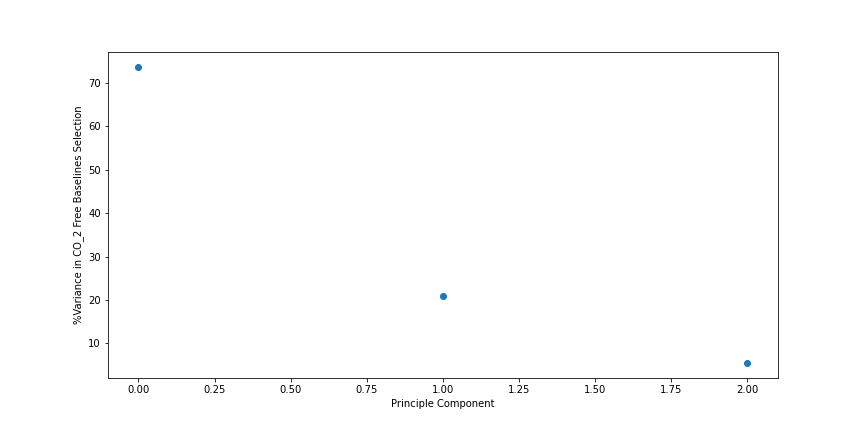
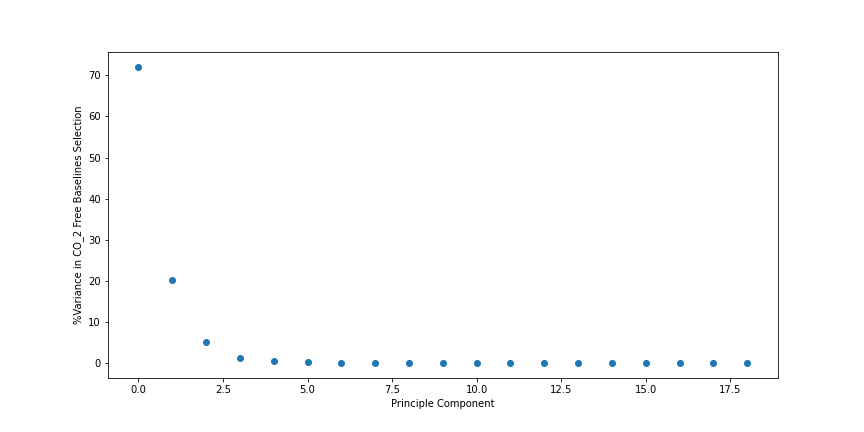
Water peak replacement mostly works. need to make input PCA vectors better

diff --git a/PCA_Baseline_vs_H20.py b/PCA_Baseline_vs_H20.py
@@ -127,7 +127,7 @@ ax.set_ylabel('Absorbance')
 Data = Smoothed
 # %%
 # Calculates the Principle components
-pca = PCA(4, ) # Number of PCA vectors to calculate 
+pca = PCA(20, ) # Number of PCA vectors to calculate 
 
 principalComponents = pca.fit(Data.T) #everything appears to work best with the raw data or raw data scaled
 
@@ -191,8 +191,8 @@ plt.savefig('PCA1_plot.png')
 fig, ax = plt.subplots(figsize=(12,6))
 
 plt.plot(Wavenumber, Mean_baseline, label = 'Average Baseline', linewidth=3)
-plt.plot(Wavenumber, Mean_baseline+PCA_vectors[1]*1, label = 'Average Baseline + PCA2')
-plt.plot(Wavenumber, Mean_baseline-PCA_vectors[1]*1, label = 'Average Baseline - PCA2')
+plt.plot(Wavenumber, Mean_baseline+PCA_vectors[2]*1, label = 'Average Baseline + PCA2')
+plt.plot(Wavenumber, Mean_baseline-PCA_vectors[2]*1, label = 'Average Baseline - PCA2')
 #plt.plot(Mean_baseline-PCA_vectors[1]*2, label = 'Average Baseline + PCA2 *2')
 
 plt.legend()
@@ -396,26 +396,31 @@ fig, ax = plt.subplots(figsize=(12,6))
 plt.plot(cutout.index, smooth_cutout)
 plt.plot(cutout)
 #%%
-offset_1500 = H2O_frame_select.loc[wn_cut_low:wn_cut_low+1] - smooth_cutout_df.loc[wn_cut_low:wn_cut_low+1]
-
-offset_1800 = H2O_frame_select.loc[wn_cut_high-1:wn_cut_high] - smooth_cutout_df.loc[wn_cut_high-1:wn_cut_high]
-
-slope = (offset_1800.values - offset_1500.values)/ (wn_cut_high-wn_cut_low)
-cutout_tilt = np.tile(np.arange(0, len(cutout.index)) - len(cutout.index)/2,(len(cutout.columns),1))
-
-stitch_adjust = pd.DataFrame(np.multiply(slope, cutout_tilt.T ) + offset_1500.values, index = cutout.index, columns = cutout.columns)
-
-cut_adjusted = smooth_cutout_df + stitch_adjust
-
-offset_1500_2 = H2O_frame_select.loc[wn_cut_low:wn_cut_low+1] - cut_adjusted.loc[wn_cut_low:wn_cut_low+1]
-
-offset_1800_2 = H2O_frame_select.loc[wn_cut_high-1:wn_cut_high] - cut_adjusted.loc[wn_cut_high-1:wn_cut_high]
 
 
+offset_H2O_frame = H2O_frame_select.loc[wn_cut_high-1:wn_cut_high].values - H2O_frame_select.loc[wn_cut_low:wn_cut_low+1].values 
+
+offset_smooth_cutout =  smooth_cutout_df.loc[wn_cut_high-1:wn_cut_high].values  - smooth_cutout_df.loc[wn_cut_low:wn_cut_low+1].values 
+
+Scaled_data_cut = smooth_cutout_df* (offset_H2O_frame/ offset_smooth_cutout)
+
+offset_1500 = H2O_frame_select.loc[wn_cut_low:wn_cut_low+1].values - Scaled_data_cut.loc[wn_cut_low:wn_cut_low+1].values
+
+offset_1800 = H2O_frame_select.loc[wn_cut_high-1:wn_cut_high].values - Scaled_data_cut.loc[wn_cut_high-1:wn_cut_high].values
+
+#slope = (offset_1800.values - offset_1500.values)/ (wn_cut_high-wn_cut_low)
+#cutout_tilt = np.tile(np.arange(0, len(cutout.index)) - len(cutout.index)/2,(len(cutout.columns),1))
+
+#stitch_adjust = pd.DataFrame(np.multiply(slope, cutout_tilt.T ) + offset_1500.values, index = cutout.index, columns = cutout.columns)
+
+#cut_adjusted = smooth_cutout_df + stitch_adjust
+cut_adjusted = Scaled_data_cut +offset_1800
+
+# I need to stretch not tilt!!!
 
 fig, ax = plt.subplots(figsize = (12,6))
 #plt.plot(cut_adjusted)
-plt.plot(stitch_adjust)
+plt.plot(cut_adjusted)
 
 #%%
 Peaks_removed_full_DF = H2O_frame_select.drop(H2O_frame_select.loc[wn_cut_low:wn_cut_high].index).append(cut_adjusted,)
